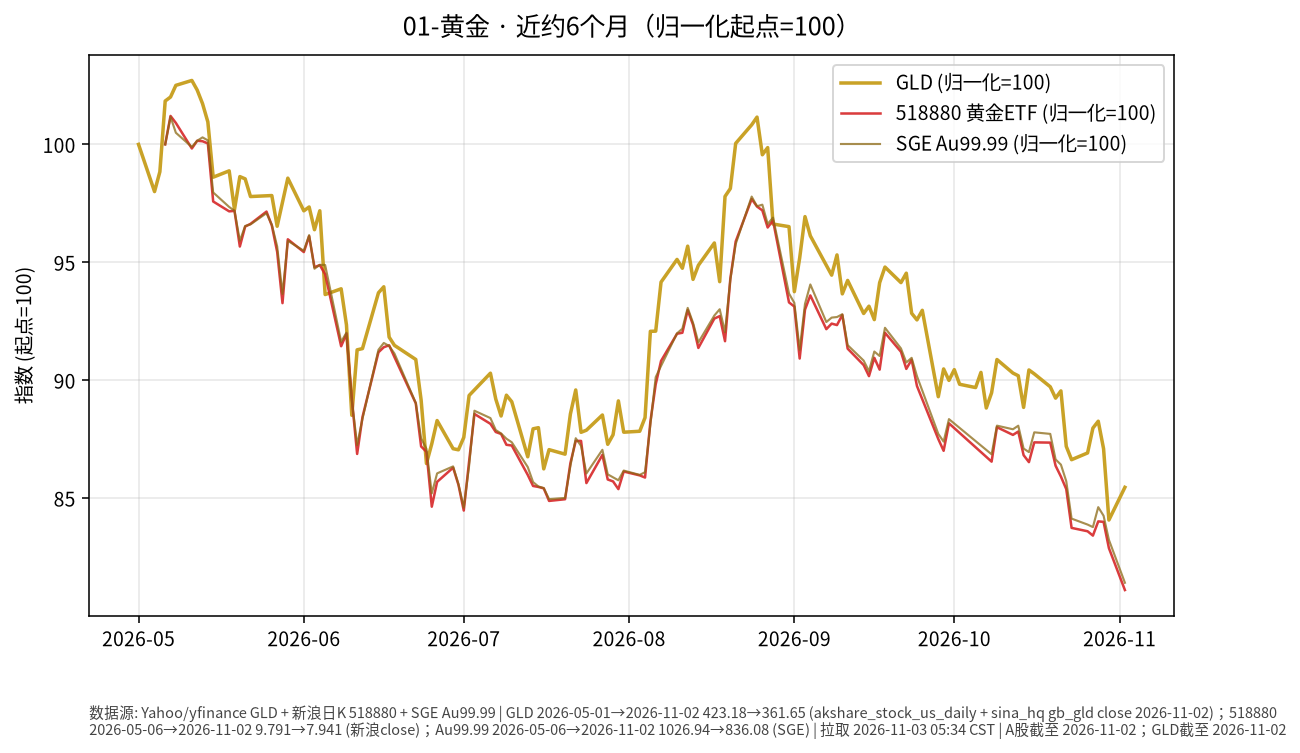
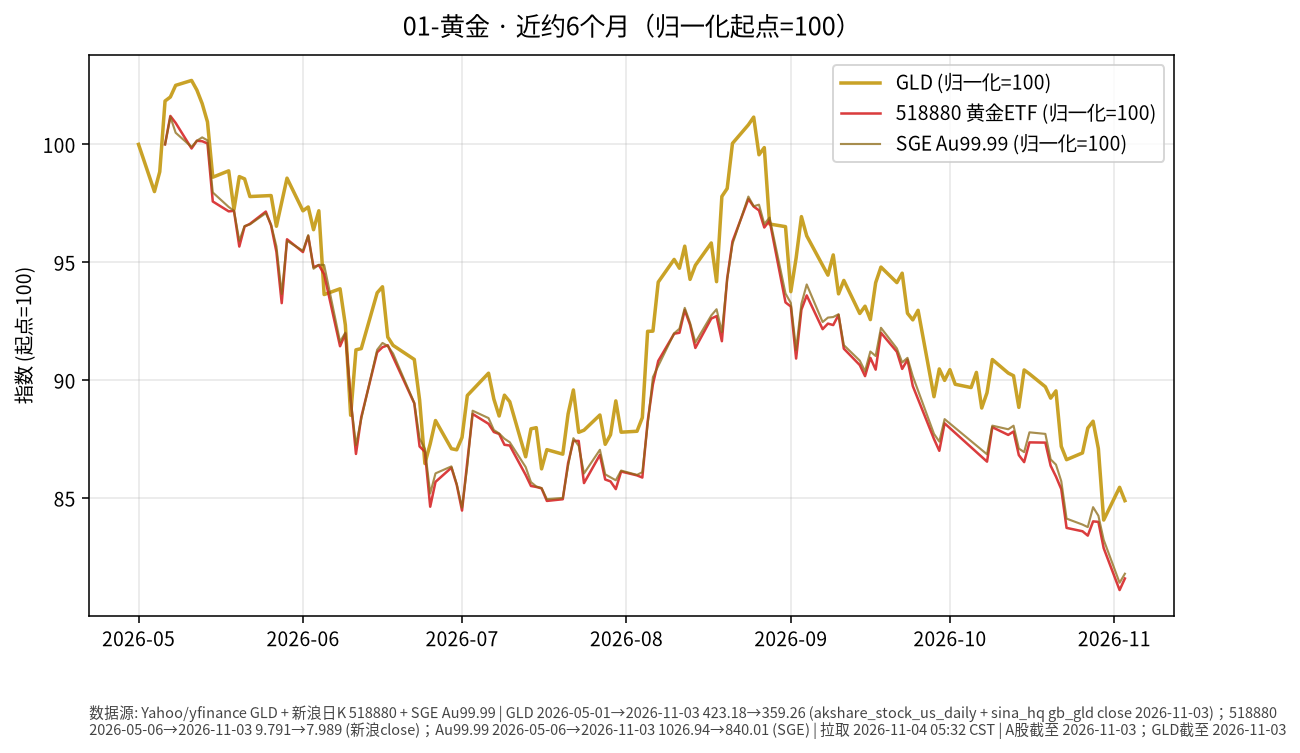
docs: 五门类投资日报 2026-11-04

diff --git a/01-黄金/日报/2026-11-04.md b/01-黄金/日报/2026-11-04.md
@@ -1,0 +1,37 @@
+# 黄金 · 日报 2026-11-04
+
+## 市场状态
+- **报告日**：2026-11-04（周三，Asia/Shanghai 盘前例程）
+- **数据截止交易日**：A 股/沪金均为 **2026-11-03（周二）**；GLD 报价点亦记为 **2026-11-03**。本页数字不含周三盘中。
+- GLD 收盘（或最新可得报价）**359.26**，较前一可得点（2026-11-02 的 361.65）**-0.66%**（akshare 日 K 至 11-02；**2026-11-03** 点位由新浪美股行情 `gb_gld` 补齐；yfinance/Yahoo 限流）。
+- 沪金 AU9999：**2026-11-03** 收盘 **840.01** 元/克（**+0.47%**）；黄金 ETF 518880 收 **7.989**（**+0.60%**）。
+
+## 关键数据
+| 标的 | 最近收盘日 | 收盘 | 日涨跌 | 近约6个月（归一起点日） | 区间涨跌 |
+|------|------------|------|--------|-------------------------|----------|
+| GLD | 2026-11-03 | 359.26 | -0.66% | 2026-05-01→2026-11-03 | -15.10% |
+| 518880 黄金ETF | 2026-11-03 | 7.989 | +0.60% | 2026-05-06→2026-11-03 | -18.40% |
+| AU9999（沪金） | 2026-11-03 | 840.01 | +0.47% | 2026-05-06→2026-11-03 | -18.20% |
+
+![近6个月走势](./charts/01-黄金-6m.png)
+
+## 简要解读
+- 美元计价黄金 ETF（GLD）在 **2026-11-03** 较前一可得点约 **-0.66%**；境内 518880 约 **+0.60%**，沪金 AU9999 约 **+0.47%**。近约半年归一后约 **-15.10%～-18.40%**。
+- 价格变动同时受美元、实际利率与风险情绪影响；本页只描述已发生报价，不推断下一步方向。
+
+## 关注点与风险
+- 汇率：境内投资者若以人民币计量，还需叠加美元兑人民币变动，账面涨跌可能与 GLD 美元涨跌不一致。
+- 波动：黄金阶段性回撤后波动仍可能放大；ETF 净值/溢价、交易时段与现货不完全同步。
+- 数据完整性：GLD 历史至 11-02 来自 akshare；**2026-11-03** 收盘由新浪 `gb_gld` 补点（yfinance/Yahoo 限流）。518880 新浪日 K；SGE Au99.99 完整。图中三条归一曲线均已叠加。
+
+## 来源与时间
+- GLD：akshare `stock_us_daily`（至 2026-11-02）+ 新浪 hq `gb_gld`（2026-11-03）；yfinance/Yahoo 限流
+- 518880：新浪日 K；AU9999：上海金交所 Dailyhq
+- 图表：Python matplotlib，收盘价归一到起点=100（图窗自 2026-05-01 起）；拉取约 2026-11-04 05:32:52 CST
+
+## 今日一点
+# 今日一点 · Day 8/100 · 《「保证收益」话术红旗》
+
+**结论：** 凡是承诺刚性兑付、短期高息、或「必须加杠杆才够」的方案，一律先降权——把它们当红旗，而不是捷径。
+
+**机制：** 真正可核对的回报，通常来自票息、股息与公开市价变动，而不是口头「保本保收益」。短时间、明显高于同类无风险利率的承诺，往往把信用、久期或杠杆风险藏在话术里；等动用年限不够、被迫卖出时，波动才会变成真损失。和债底仓主线一致：先认清产品能不能睡得着、年限匹不匹配，再谈以后股票卫星。今天只记识别红旗，不谈买卖。

diff --git a/03-国债/日报/2026-11-04.md b/03-国债/日报/2026-11-04.md
@@ -1,0 +1,29 @@
+# 国债 · 日报 2026-11-04
+
+## 市场状态
+- **报告日**：2026-11-04；**数据截止交易日**：**2026-11-03**。
+- 国债 ETF 511010 收 **141.306**，日涨跌 **+0.096%**。
+- 中债国债收益率曲线 **10 年期** 2026-11-03 报 **1.6210%**，较上一可得日（2026-11-02 的 1.6343%）约 **-1.33 BP**（akshare `bond_zh_us_rate`）。
+- **提醒**：利率上行（曲线上移）通常对应既有国债价格承压；图中 ETF 净值涨 ≠ 收益率涨。**利率↑线↑≠债价涨**。
+
+## 关键数据
+| 标的 | 收盘日 | 收盘/收益率 | 日变化 | 约6个月 | 区间 |
+|------|--------|-------------|--------|---------|------|
+| 511010 | 2026-11-03 | 141.306 | +0.096% | 2026-05-06→2026-11-03 | +0.35% |
+| 中债10Y国债收益率 | 2026-11-03 | 1.6210% | 约-1.33 BP | 2026-05-06→2026-11-03 | 约 -14.44 BP（akshare 序列） |
+
+![近6个月走势](./charts/03-国债-6m.png)
+
+## 简要解读
+- 511010 近半年归一涨跌约 **+0.35%**，路径相对平缓；2026-11-03 微涨，同时 10Y 收益率较前一可得日约 -1.33 BP（利率下行对存量债价偏支撑，与 ETF 同日微涨方向一致，但单日仍可能受供需/折溢价影响）。
+- 久期越长，对收益率变化越敏感；本页只记录 ETF 收盘与曲线点位。图中右轴叠加中国10Y收益率日序。
+
+## 关注点与风险
+- 利率风险：收益率上行 → 债券市价下行。
+- 通胀预期、货币政策与供需（供给放量等）都会改变曲线形态。
+- 收益率序列来自公开曲线汇总，与 ETF 交易价时间戳不完全同步。
+
+## 来源与时间
+- 511010：新浪日 K；截止 2026-11-03
+- 收益率：akshare `bond_zh_us_rate`（2026-11-03，10Y=1.6210%）
+- 图表：matplotlib，ETF 收盘归一=100，中国10Y 收益率右轴；图注已写「利率↑线↑≠债价涨」；拉取约 2026-11-04 05:32:52 CST

diff --git a/05-高股息/日报/2026-11-04.md b/05-高股息/日报/2026-11-04.md
@@ -1,0 +1,30 @@
+# 高股息 · 日报 2026-11-04
+
+## 市场状态
+- **报告日**：2026-11-04；**数据截止交易日**：**2026-11-03**。
+- 红利 ETF 510880 收 **3.438**（**-0.06%**）。
+- 招商银行 600036 收 **42.69**（**-1.13%**）；长江电力 600900 收 **29.86**（**+1.22%**）。
+- 510880 与招行同日下行、长电上行；分红与价格涨跌是两回事（股息率随股价变动）。
+- **价格口径**：本页序列为交易所日 K **未复权**收盘（新浪）。
+
+## 关键数据
+| 标的 | 收盘日 | 收盘 | 日涨跌 | 约6个月 | 区间涨跌 |
+|------|--------|------|--------|---------|----------|
+| 510880 红利ETF | 2026-11-03 | 3.438 | -0.06% | 2026-05-06→2026-11-03 | +2.90% |
+| 600036 招商银行 | 2026-11-03 | 42.69 | -1.13% | 2026-05-06→2026-11-03 | +12.34% |
+| 600900 长江电力 | 2026-11-03 | 29.86 | +1.22% | 2026-05-06→2026-11-03 | +9.78% |
+
+![近6个月走势](./charts/05-高股息-6m.png)
+
+## 简要解读
+- 近半年归一（未复权）：510880 约 **+2.90%**，招行约 **+12.34%**，长电约 **+9.78%**（个股路径强于宽基红利 ETF，不代表未来）。
+- 2026-11-03：510880 微跌、招行回落、长电上行，属已发生的价格事实。
+
+## 关注点与风险
+- 银行与公用事业对利率、监管、来水/电价等基本面敏感；高股息不保证本金稳定。
+- 510880 成分与权重定期调整；个股与 ETF 走势可显著偏离。
+- 未复权序列在除权除息日会出现跳空，与前复权路径不一致属正常。
+
+## 来源与时间
+- 510880 / 600036 / 600900：新浪 CN_MarketData K 线（未复权）
+- 截止 2026-11-03；图表 matplotlib，起点=100；图注写明未复权；拉取约 2026-11-04 05:32:52 CST

diff --git a/02-中短债/日报/2026-11-04.md b/02-中短债/日报/2026-11-04.md
@@ -1,0 +1,28 @@
+# 中短债 · 日报 2026-11-04
+
+## 市场状态
+- **报告日**：2026-11-04；**A 股数据截止交易日**：**2026-11-03**（周三盘前）。
+- 短融 ETF 511360 收 **114.110**（日涨跌 **+0.012%**）。
+- 159649（国开债 ETF 华安）收 **110.835**（日涨跌 **+0.040%**）。
+- 短端品种单日变动极小；仅作路径对照，非交易建议。
+
+## 关键数据
+| 标的 | 收盘日 | 收盘 | 日涨跌 | 约6个月区间 | 区间涨跌 |
+|------|--------|------|--------|-------------|----------|
+| 511360 短融ETF海富通 | 2026-11-03 | 114.110 | +0.012% | 2026-05-06→2026-11-03 | +0.62% |
+| 159649 国开债ETF华安 | 2026-11-03 | 110.835 | +0.040% | 2026-05-06→2026-11-03 | +1.06% |
+
+![近6个月走势](./charts/02-中短债-6m.png)
+
+## 简要解读
+- 两条曲线近半年均呈缓慢抬升（归一后约 **+0.62%** / **+1.06%**），单日波动接近于零，符合短久期利率品种特征。
+- 159649 跟踪国开债，久期与信用暴露通常高于纯短融；与 511360 并排只为对照路径，不暗示优劣。
+
+## 关注点与风险
+- 利率上行时净值可能回撤（即使票息仍为正）。
+- ETF 折溢价、流动性与跟踪误差；节假日后跳空可能出现。
+- 杠杆与加久期会放大波动——本报告不讨论、不鼓励此类操作。
+
+## 来源与时间
+- 新浪 CN_MarketData 日 K，截止 2026-11-03
+- 图表：matplotlib，起点归一=100；拉取约 2026-11-04 05:32:52 CST

diff --git a/04-纯债/日报/2026-11-04.md b/04-纯债/日报/2026-11-04.md
@@ -1,0 +1,28 @@
+# 纯债 · 日报 2026-11-04
+
+## 市场状态
+- **报告日**：2026-11-04；**数据截止交易日**：**2026-11-03**。
+- 城投债 ETF 511220 收 **10.440**（**+0.153%**）。
+- 政金债/债券 ETF 511520 收 **120.262**（**+0.430%**）。
+- 两者同日均小幅上行；近半年仍呈缓慢抬升。
+
+## 关键数据
+| 标的 | 收盘日 | 收盘 | 日涨跌 | 约6个月区间 | 区间涨跌 |
+|------|--------|------|--------|-------------|----------|
+| 511220 城投债ETF海富通 | 2026-11-03 | 10.440 | +0.153% | 2026-05-06→2026-11-03 | +1.03% |
+| 511520 政金债ETF富国 | 2026-11-03 | 120.262 | +0.430% | 2026-05-06→2026-11-03 | +2.96% |
+
+![近6个月走势](./charts/04-纯债-6m.png)
+
+## 简要解读
+- 近半年归一：511220 约 **+1.03%**，511520 约 **+2.96%**；2026-11-03 两者均小幅上行。
+- 城投债含信用利差暴露，政金债更偏利率；并排对照路径，不评价孰优。
+
+## 关注点与风险
+- 信用利差扩张时，城投/信用类净值回撤可能大于利率债。
+- 利率上行同样压制久期更长的品种。
+- ETF 折溢价与跟踪误差；本报告不讨论杠杆与下沉信用。
+
+## 来源与时间
+- 新浪 CN_MarketData 日 K，截止 2026-11-03
+- 图表：matplotlib，起点归一=100；拉取约 2026-11-04 05:32:52 CST

diff --git a/notes/invest-knowledge-100/今日一点/2026-11-04-day08.md b/notes/invest-knowledge-100/今日一点/2026-11-04-day08.md
@@ -1,0 +1,5 @@
+# 今日一点 · Day 8/100 · 《「保证收益」话术红旗》
+
+**结论：** 凡是承诺刚性兑付、短期高息、或「必须加杠杆才够」的方案，一律先降权——把它们当红旗，而不是捷径。
+
+**机制：** 真正可核对的回报，通常来自票息、股息与公开市价变动，而不是口头「保本保收益」。短时间、明显高于同类无风险利率的承诺，往往把信用、久期或杠杆风险藏在话术里；等动用年限不够、被迫卖出时，波动才会变成真损失。和债底仓主线一致：先认清产品能不能睡得着、年限匹不匹配，再谈以后股票卫星。今天只记识别红旗，不谈买卖。

diff --git a/notes/invest-knowledge-100/progress.md b/notes/invest-knowledge-100/progress.md
@@ -1,4 +1,4 @@
-next_day: 8
+next_day: 9
 started: 2026-10-26
-last_completed_day: 7
-last_date: 2026-11-03
+last_completed_day: 8
+last_date: 2026-11-04
